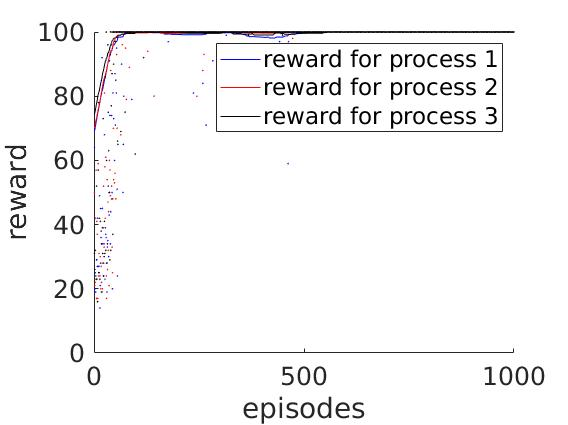
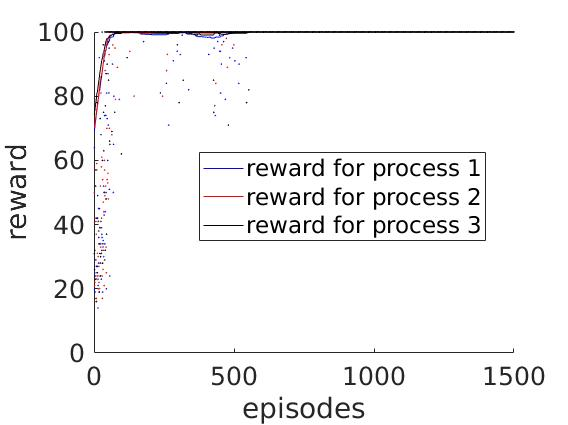
update learning curve

diff --git a/learning_curve_multiple.m b/learning_curve_multiple.m
@@ -13,4 +13,4 @@ learning_curve_;
 id=3;color="k";
 learning_curve_;
 legend('',label1,'',label2,'',label3)
-xlim([0,1000])
+xlim([0,1500])
